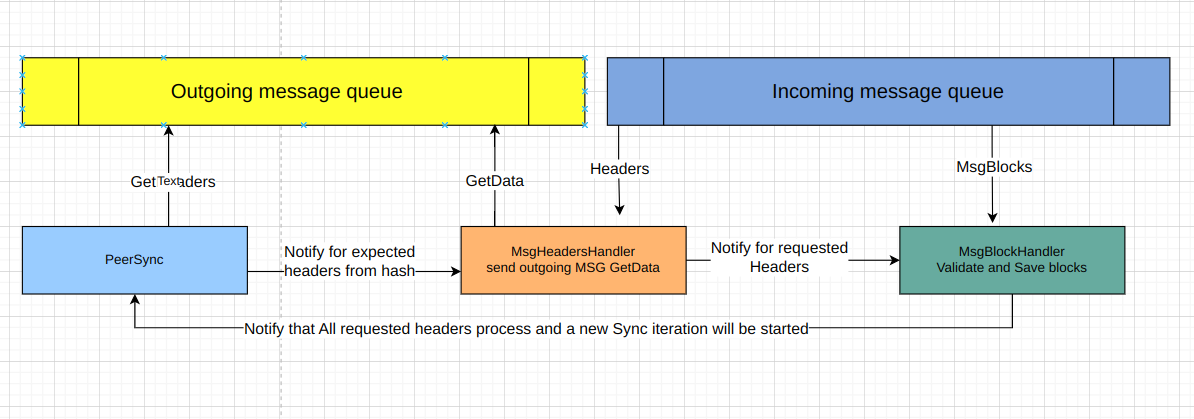
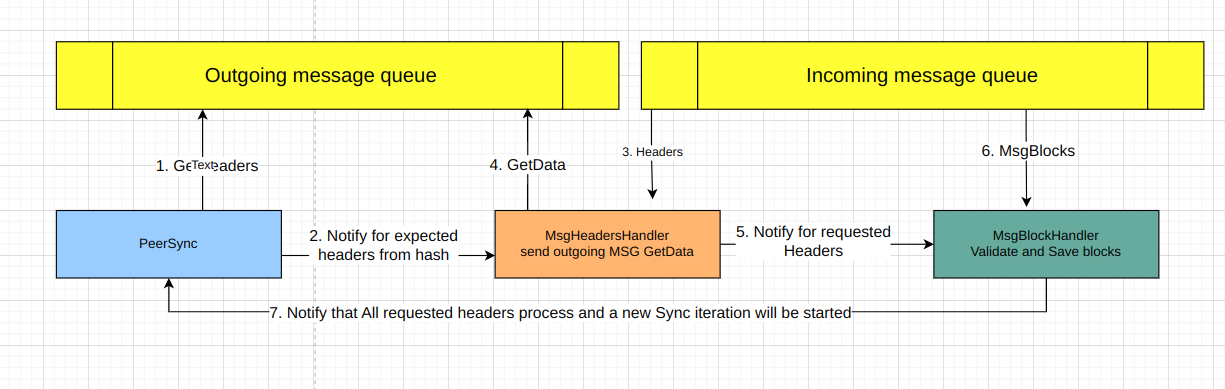
update readme file

diff --git a/README.md b/README.md
@@ -17,18 +17,36 @@ Peer 3 has blocks: block1, block2 with a cumulative PoW of 60
 The Node will choose to sync with Peer 1. The cumulative PoW is chosen, even though Peer 2 has more 
 blocks in its chain. The first network is the most secure of these three.
 
-The Node also run goroutine that listen for on lower levels. When an error is raised that interrupt
-the connection with the peers, an error is send through a channel. Node handle this error and try to reconnect 
-to the peer. 
+The Node also runs a goroutine that listens on lower levels. When an error occurs that interrupts the connection with 
+the peers, an error message is sent through a channel. The Node handles this error and attempts to reconnect to the peer. 
+Here is an overview of the communication between the 'Node' and its 'ServerPeer' instances:
+
+![Diagram of the BTC Node](docs/node-serverpeer.png)
+
+
+Step 1 - When an outgoing/incoming handshake connection is established and a new ServerPeer instance is created, the Node 
+always starts with GetChainOverview. In this first step, the node gets information about what chain the peer contains, 
+how long it is, its validity, and the common cumulative Proof of Work (PoW) for all blocks.
+
+Step 2 - If the node decides that this is the best peer to sync with, it initializes a sync process with that peer. See 
+the [Sync workflow diagram](#sync-flow) for more details.
+
+Step 3 - If an error arises within any of the goroutines inside the ServerPeer, it is sent to the 'Node'. The error type 
+is custom and contains information about the kind of error, where it occurred, and whether it is retryable or not. Based 
+on the information inside the error, the Node can decide what to do, such as reconnecting to the peer if the error is a 
+network connectivity issue, or stopping the connection and blocking the peer if it sends malicious data or violates the 
+Bitcoin protocol.
+
+Step 4 - Finally, the Node can gracefully stop the ServerPeer if it receives a signal to interrupt.
 
 ## ServerPeer
 When a new connection is established, a new ServerPeer instance is created. ServerPeer runs two goroutines: one for 
 listening to incoming messages from the peer and another for outgoing messages that need to be sent to the peer.
 
-Additionally, ServerPeer has methods to trigger the 'sync-overview' and 'sync' processes.
+Additionally, ServerPeer has methods to trigger the 'sync-overview' and 'sync' processes with the peer.
 
-When a new incoming message is received, its type is checked and it is routed to its handler.
-When outgoing message is received from a channel it is send to the peer. 
+When a new incoming message is received from the TCP connection, its type is checked and it is routed to its handler.
+When outgoing message is received from a channel it is send to the peer through the TCP connection. 
 
 ## PeerSync
 PeerSync contains the logic for getting an overview of the chain. Based on this overview, the Node can decide whether 
@@ -54,7 +72,9 @@ the next iteration of sync.
 Here is the workflow diagram between PeerSync, HeadersHandler, BlocksHandler 
 and out/in messages queues (which are maintained from ServerPer):
 
-![Diagram of the BTC Node](docs/sync-workflow.png)
+#### sync-flow:
+
+![Diagram of the sync workflow](docs/sync-workflow.png)
 
 ## Run the node:
 In the folder cmd/btc-node there is a file example_config.yaml. It contains an example of the config values 
@@ -70,6 +90,3 @@ is the path to the file where th logs wil be saved ( by default /tmp/app.log wil
 ```azure
 ./btc-node -config=<path-to-your-config-file> -logs_path=<path tpt he logs file>
 ```
-
-
-
